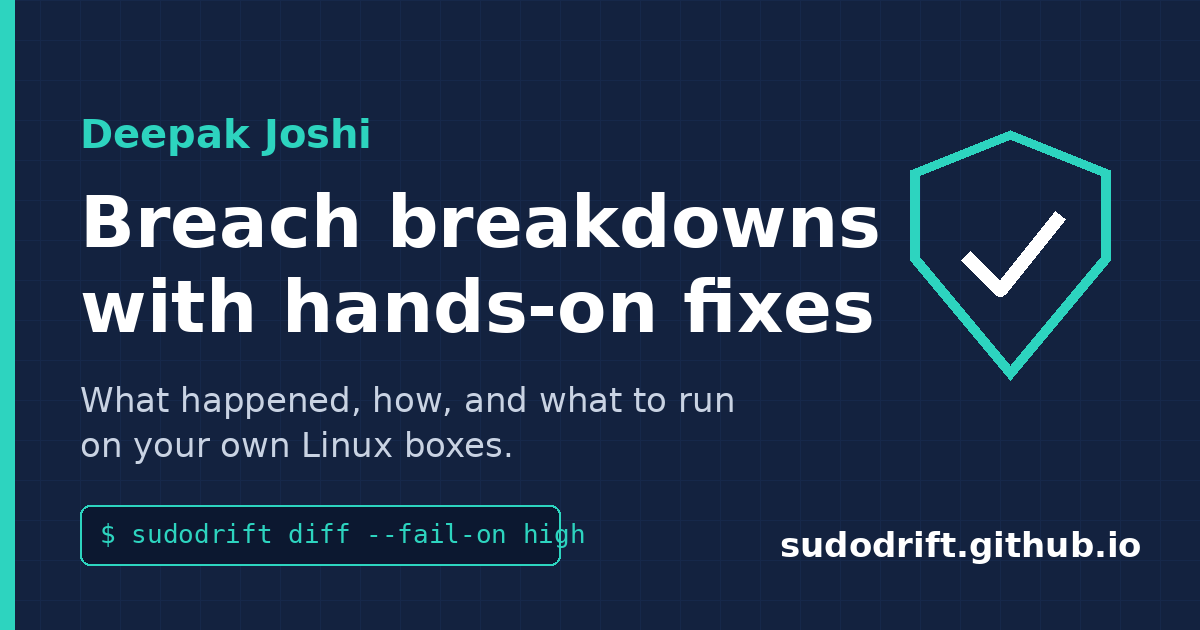
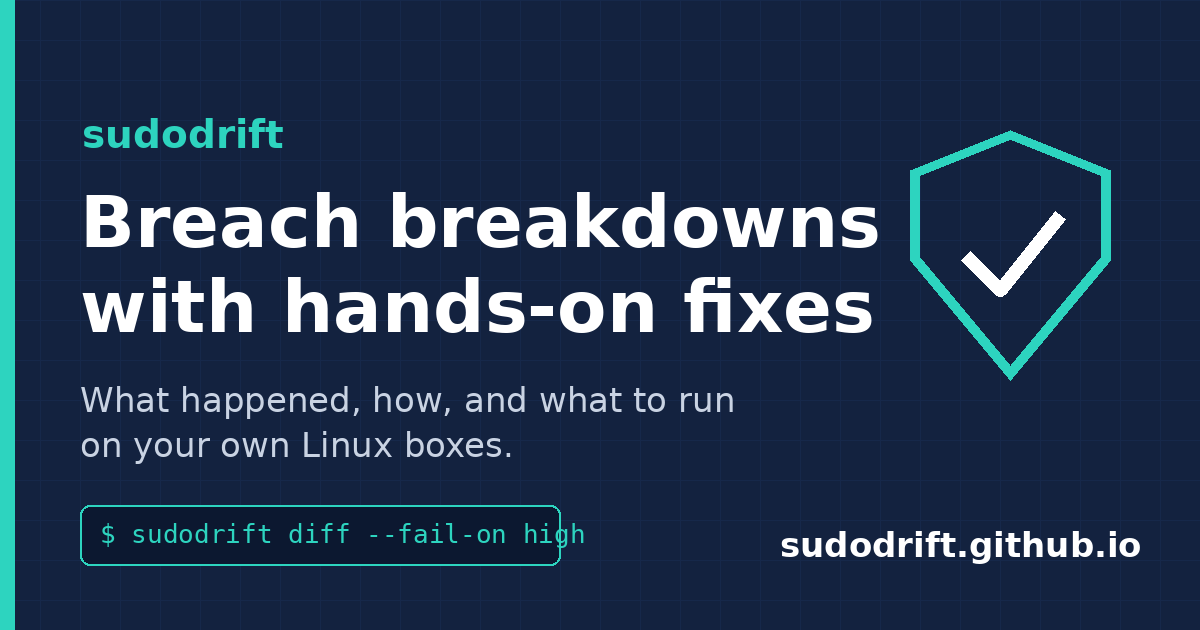
Use sudodrift instead of a personal name across the site

Changed region(s): [[0.0617, 0.181, 0.3083, 0.2413]]

diff --git a/index.html b/index.html
@@ -1,11 +1,11 @@
 ---
 layout: default
 title: Breach breakdowns with hands-on fixes
-description: Plain-language breakdowns of real security breaches, with the commands to check your own systems. By Deepak Joshi, Linux sysadmin and maker of sudodrift.
+description: Plain-language breakdowns of real security breaches, with the commands to check your own systems. By sudodrift, a Linux sysadmin who builds small open source security tools.
 ---
 <section class="hero">
   <h1>Real breaches, and what to run on your own boxes</h1>
-  <p class="lede">I'm Deepak Joshi. I've spent more than ten years in IT, mostly as a Linux sysadmin and in security. When something big gets breached, I read the incident reports, work out what actually happened, and write down the checks and fixes you can use today.</p>
+  <p class="lede">I write as sudodrift. I've spent more than ten years in IT, mostly as a Linux sysadmin and in security. When something big gets breached, I read the incident reports, work out what actually happened, and write down the checks and fixes you can use today.</p>
   <div class="button-row">
     <a class="button" href="{{ site.links.substack }}">Get Weekly Breach Notes</a>
     <a class="button secondary" href="{{ '/articles/' | relative_url }}">Read the articles</a>

diff --git a/_includes/header.html b/_includes/header.html
@@ -1,6 +1,6 @@
 <header class="site-header">
   <div class="wrap header-row">
-    <a class="brand" href="{{ '/' | relative_url }}">Deepak Joshi</a>
+    <a class="brand" href="{{ '/' | relative_url }}">sudodrift</a>
     <nav class="nav" aria-label="Main">
       <a href="{{ '/articles/' | relative_url }}"{% if page.url == '/articles/' or page.layout == 'post' %} aria-current="page"{% endif %}>Articles</a>
       <a href="{{ '/sudodrift/' | relative_url }}"{% if page.url == '/sudodrift/' %} aria-current="page"{% endif %}>sudodrift</a>

diff --git a/_includes/footer.html b/_includes/footer.html
@@ -6,6 +6,6 @@
       <a href="{{ site.links.github }}">sudodrift on GitHub</a> ·
       <a href="{{ '/feed.xml' | relative_url }}">RSS</a>
     </p>
-    <p class="small">© {{ site.time | date: '%Y' }} Deepak Joshi. No trackers on this site. <a class="tip" href="{{ site.links.kofi }}">Buy me a coffee on Ko-fi</a></p>
+    <p class="small">© {{ site.time | date: '%Y' }} sudodrift. No trackers on this site. <a class="tip" href="{{ site.links.kofi }}">Buy me a coffee on Ko-fi</a></p>
   </div>
 </footer>

diff --git a/articles/index.html b/articles/index.html
@@ -1,7 +1,7 @@
 ---
 layout: default
 title: Articles
-description: Every breach breakdown by Deepak Joshi, newest first. What happened, how it happened, and the commands to check your own systems.
+description: Every breach breakdown on sudodrift, newest first. What happened, how it happened, and the commands to check your own systems.
 permalink: /articles/
 ---
 <article class="page">

diff --git a/_layouts/post.html b/_layouts/post.html
@@ -7,7 +7,7 @@ layout: default
     {% if page.description %}<p class="dek">{{ page.description }}</p>{% endif %}
     <p class="meta">
       <time datetime="{{ page.date | date_to_xmlschema }}">{{ page.date | date: '%B %-d, %Y' }}</time>
-      · By Deepak Joshi
+      · By sudodrift
       · <a href="{{ '/feed.xml' | relative_url }}">RSS feed</a>
     </p>
   </header>

diff --git a/about/index.md b/about/index.md
@@ -1,11 +1,11 @@
 ---
 layout: page
 title: About
-description: Deepak Joshi has spent more than ten years in IT, mostly as a Linux sysadmin and in security. He writes breach breakdowns with hands-on fixes and maintains sudodrift.
+description: The person behind sudodrift has spent more than ten years in IT, mostly as a Linux sysadmin and in security, and writes breach breakdowns with hands-on fixes.
 permalink: /about/
 ---
 
-I'm Deepak Joshi. I've worked in IT for more than ten years, most of it as a Linux sysadmin and in security. A lot of that time went into the unglamorous parts: who has sudo, whose SSH key is still on the box, which secret nobody rotated.
+I write as sudodrift. I've worked in IT for more than ten years, most of it as a Linux sysadmin and in security. A lot of that time went into the unglamorous parts: who has sudo, whose SSH key is still on the box, which secret nobody rotated.
 
 That is what I write about. When a breach makes the news, I read the vendor's incident report and the research write-ups, separate what's confirmed from what's guessed, and turn it into checks you can run on your own machines. No hype, and I say so when I don't know something.
 

diff --git a/tools/index.md b/tools/index.md
@@ -1,7 +1,7 @@
 ---
 layout: page
 title: Tools
-description: Free, open source security tools by Deepak Joshi. sudodrift tracks access changes on Linux servers, breach-checks has scripts for real incidents, agent-preflight checks what a coding agent will load before you start it, releasedrift catches unpinned or swapped GitHub release downloads, keydrift finds which keys an incident exposed, and keyburn spots a stolen AI key from its usage.
+description: Free, open source security tools by sudodrift. sudodrift tracks access changes on Linux servers, breach-checks has scripts for real incidents, agent-preflight checks what a coding agent will load before you start it, releasedrift catches unpinned or swapped GitHub release downloads, keydrift finds which keys an incident exposed, and keyburn spots a stolen AI key from its usage.
 permalink: /tools/
 ---
 

diff --git a/README.md b/README.md
@@ -1,6 +1,6 @@
 # sudodrift.github.io
 
-Source for https://sudodrift.github.io: Deepak Joshi's breach breakdowns and the sudodrift tool page. Plain Jekyll, built by GitHub Pages.
+Source for https://sudodrift.github.io: sudodrift's breach breakdowns and the sudodrift tool page. Plain Jekyll, built by GitHub Pages.
 
 - Add a post: see HOW-TO-POST.md
 - Going live: see GO-LIVE.md
